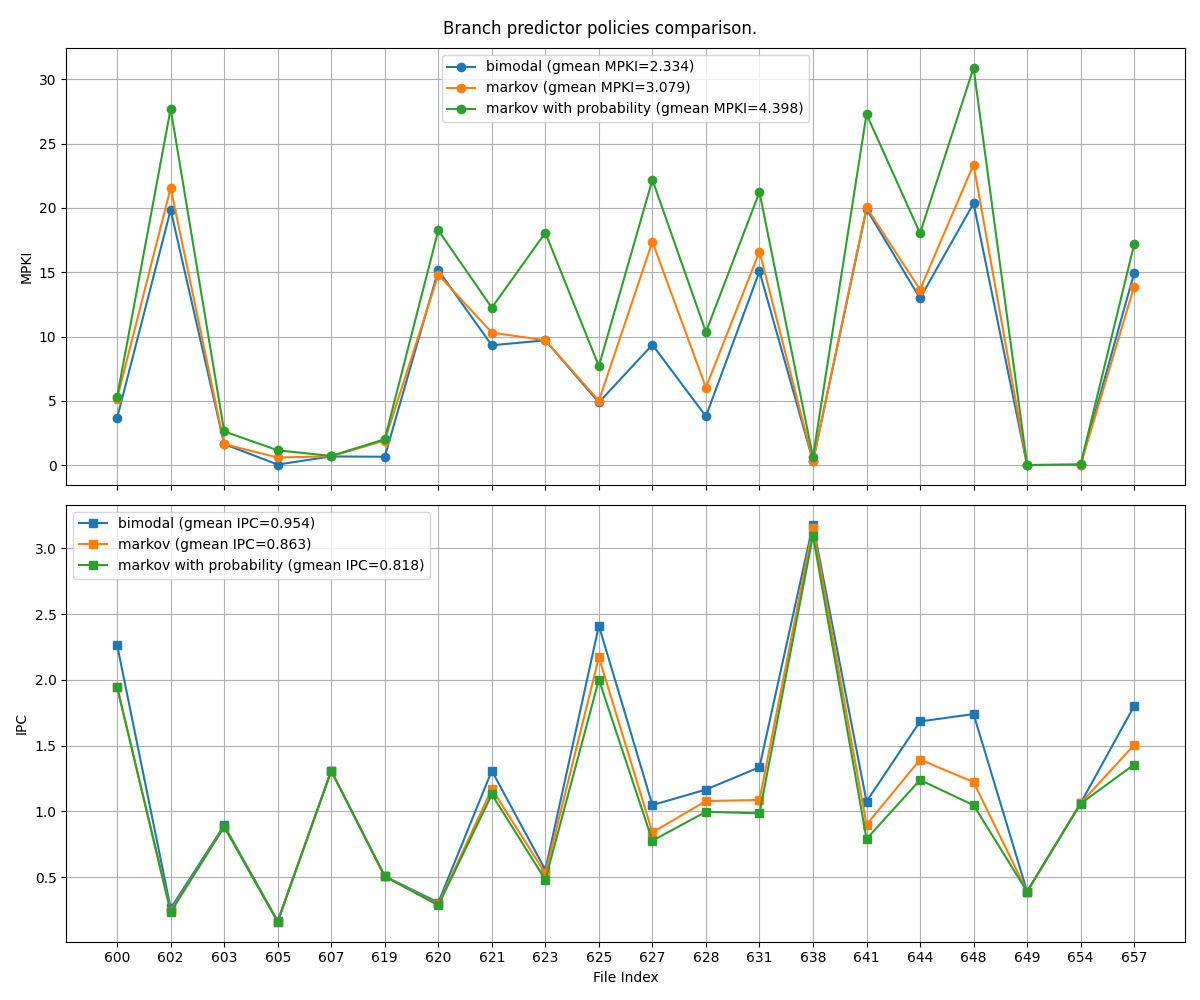
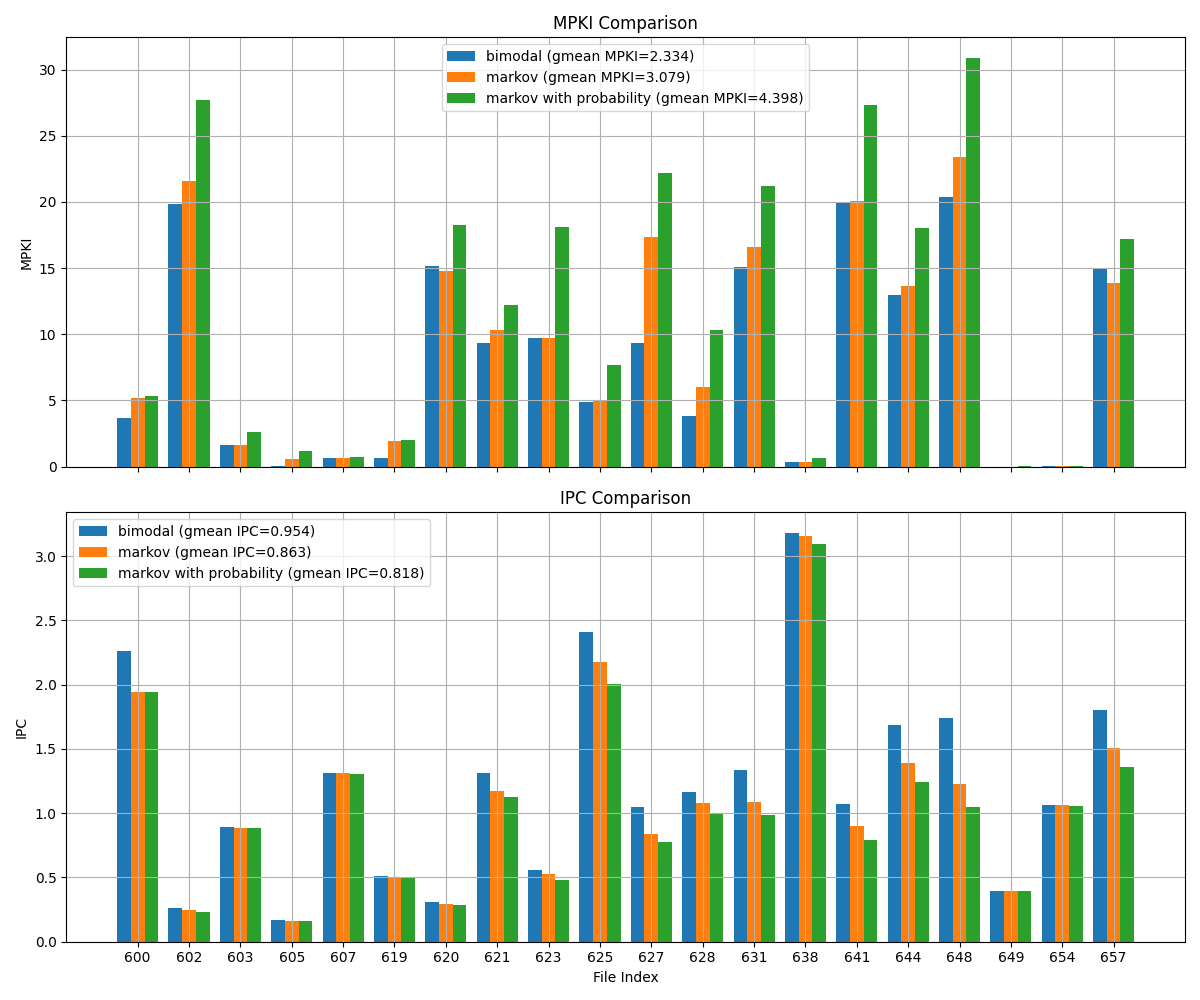
plot fixes applied

diff --git a/branch_comparison.py b/branch_comparison.py
@@ -37,34 +37,43 @@ def parse_mpki_and_ipc(filename: Path):
 
     return cur_ipc, cur_mpki
 
+
 def plot_results(all_results, labels):
     fig, (ax1, ax2) = plt.subplots(2, 1, figsize=(12, 10), sharex=True)
 
-    for results, label in zip(all_results, labels):
-        file_idxs = [el["file_idx"] for el in results]
-        mpkis = [el["mpki"] for el in results]
-        ipcs = [el["ipc"] for el in results]
+    num_labels = len(labels)
+    file_idxs = sorted(list(set(el["file_idx"] for results in all_results for el in results)))
+    bar_width = 0.8 / num_labels
 
-        res_gmean_mpki = np.round(gmean(mpkis), 3)
-        res_gmean_ipc = np.round(gmean(ipcs), 3)
+    for i, (results, label) in enumerate(zip(all_results, labels)):
+        mpki_dict = {el["file_idx"]: el["mpki"] for el in results}
+        ipc_dict = {el["file_idx"]: el["ipc"] for el in results}
 
-        ax1.plot(file_idxs, mpkis, marker='o', label=f"{label} (gmean MPKI={res_gmean_mpki})")
-        ax2.plot(file_idxs, ipcs, marker='s', label=f"{label} (gmean IPC={res_gmean_ipc})")
+        mpkis = [mpki_dict.get(idx, 0) for idx in file_idxs]
+        ipcs = [ipc_dict.get(idx, 0) for idx in file_idxs]
+
+        res_gmean_mpki = np.round(gmean([v for v in mpkis if v > 0]), 3)
+        res_gmean_ipc = np.round(gmean([v for v in ipcs if v > 0]), 3)
+
+        positions = np.arange(len(file_idxs)) + i * bar_width
+
+        ax1.bar(positions, mpkis, bar_width, label=f"{label} (gmean MPKI={res_gmean_mpki})")
+        ax2.bar(positions, ipcs, bar_width, label=f"{label} (gmean IPC={res_gmean_ipc})")
 
     ax1.set_ylabel("MPKI")
-    ax1.legend()
-    ax1.grid(True)
-
-    ax2.set_xlabel("File Index")
     ax2.set_ylabel("IPC")
+    ax2.set_xlabel("File Index")
+    ax1.set_title("MPKI Comparison")
+    ax2.set_title("IPC Comparison")
+    ax2.set_xticks(np.arange(len(file_idxs)) + bar_width * (num_labels - 1) / 2)
+    ax2.set_xticklabels(file_idxs)
+    ax1.legend()
     ax2.legend()
+    ax1.grid(True)
     ax2.grid(True)
-
-    plt.suptitle("Branch predictor policies comparison.")
     plt.tight_layout()
     plt.savefig("branch_comparison.png")
     plt.close()
-
 
 def run_analysis(input_dir: Path):
     input_files = os.listdir(input_dir)
@@ -103,7 +112,7 @@ if __name__ == "__main__":
     for dir_path in runs_dirs:
         results = run_analysis(dir_path)
         all_results.append(results)
-        labels.append(labels_correct[dir_path.name])
+        labels.append(labels_correct[dir_path.name] if dir_path.name in labels_correct.keys() else dir_path.name)
 
     plot_results(all_results, labels)
 
